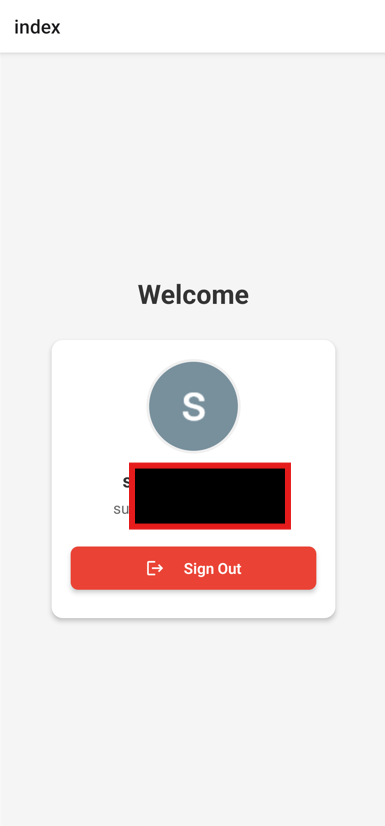
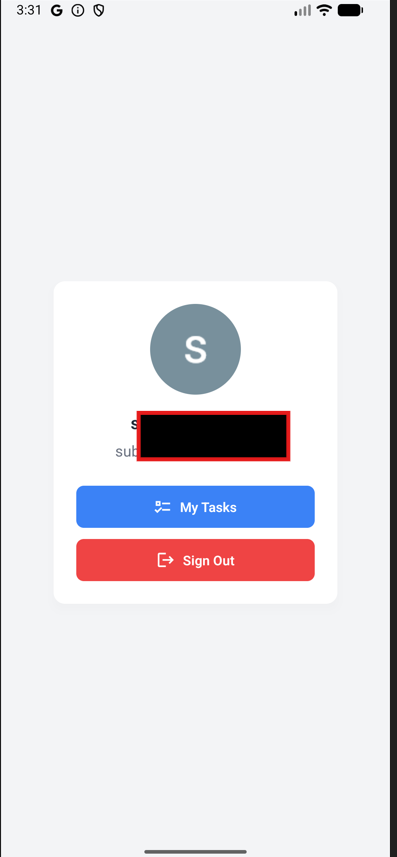
feat: improved README

diff --git a/app/_layout.tsx b/app/_layout.tsx
@@ -1,10 +1,17 @@
 import { Stack } from "expo-router";
+import { View } from 'react-native';
+import { StatusBar } from 'expo-status-bar';
 import "../app/global.css";
 
 export default function RootLayout() {
   return (
-    <>
-      <Stack />
-    </>
+    <View className="flex-1 bg-gray-100 pt-6">
+      <StatusBar style="dark" />
+      <Stack
+        screenOptions={{
+          headerShown: false,
+        }}
+      />
+    </View>
   );
 }

diff --git a/README.md b/README.md
@@ -1,18 +1,20 @@
-# Expo React Native Google Sign with Supabase
+# Expo React Native Task App
 
 Expo React Native app with Google Sign In using [`react-native-google-signin/google-signin`](https://github.com/react-native-google-signin/google-signin)
-very simple for learning purposes with Nativewind (Tailwind CSS) and Supabase
+very simple for learning purposes with Nativewind (Tailwind CSS) and Supabase with task app.
 
 google sign library web [WEB react-native-google-signin](https://react-native-google-signin.github.io/)
 
-
+<p align="center">
+  <img src="README-images/indexSigin.png" alt="sign in">
+</p>
 
 <p align="center">
   <img src="README-images/homeindexrn.png" alt="home">
 </p>
 
 <p align="center">
-  <img src="README-images/indexSigin.png" alt="sign in">
+  <img src="README-images/Mytasks.png" alt="my tasks">
 </p>
 
 ----
@@ -257,6 +259,43 @@ edit column "user_id" of table accounts
 
 <p align="center">
   <img src="README-images/GooglesupabaseCompleted.png" alt="GooglesupabaseCompleted">
+</p>
+
+
+## Task App
+
+So now create a new table in supabase named "task" with the following columns:
+
+| Name       | Format                      | Type   |
+|------------|-----------------------------|--------|
+| id         | bigint                      | number |
+| useremail  | text                        | string |
+| title      | text                        | string |
+| description| text                        | string |
+| created_at | timestamp without time zone | string |
+| updated_at | timestamp without time zone | string |            
+
+
+<p align="center">
+  <img src="README-images/tasktableSupabase.png" alt="tasktableSupabase">
+</p>
+
+> **Note:** Very important to disable RLS in the table "task" in supabase
+
+<p align="center">
+  <img src="README-images/Mytasks.png" alt="my tasks">
+</p>
+
+Task analytics Count People same title
+
+<p align="center">
+  <img src="README-images/TaskAnalytics.png" alt="my tasks">
+</p>
+
+Task analytics People with same tile
+
+<p align="center">
+  <img src="README-images/taskAnalyticsbuttons.png" alt="my tasks">
 </p>
 
 
